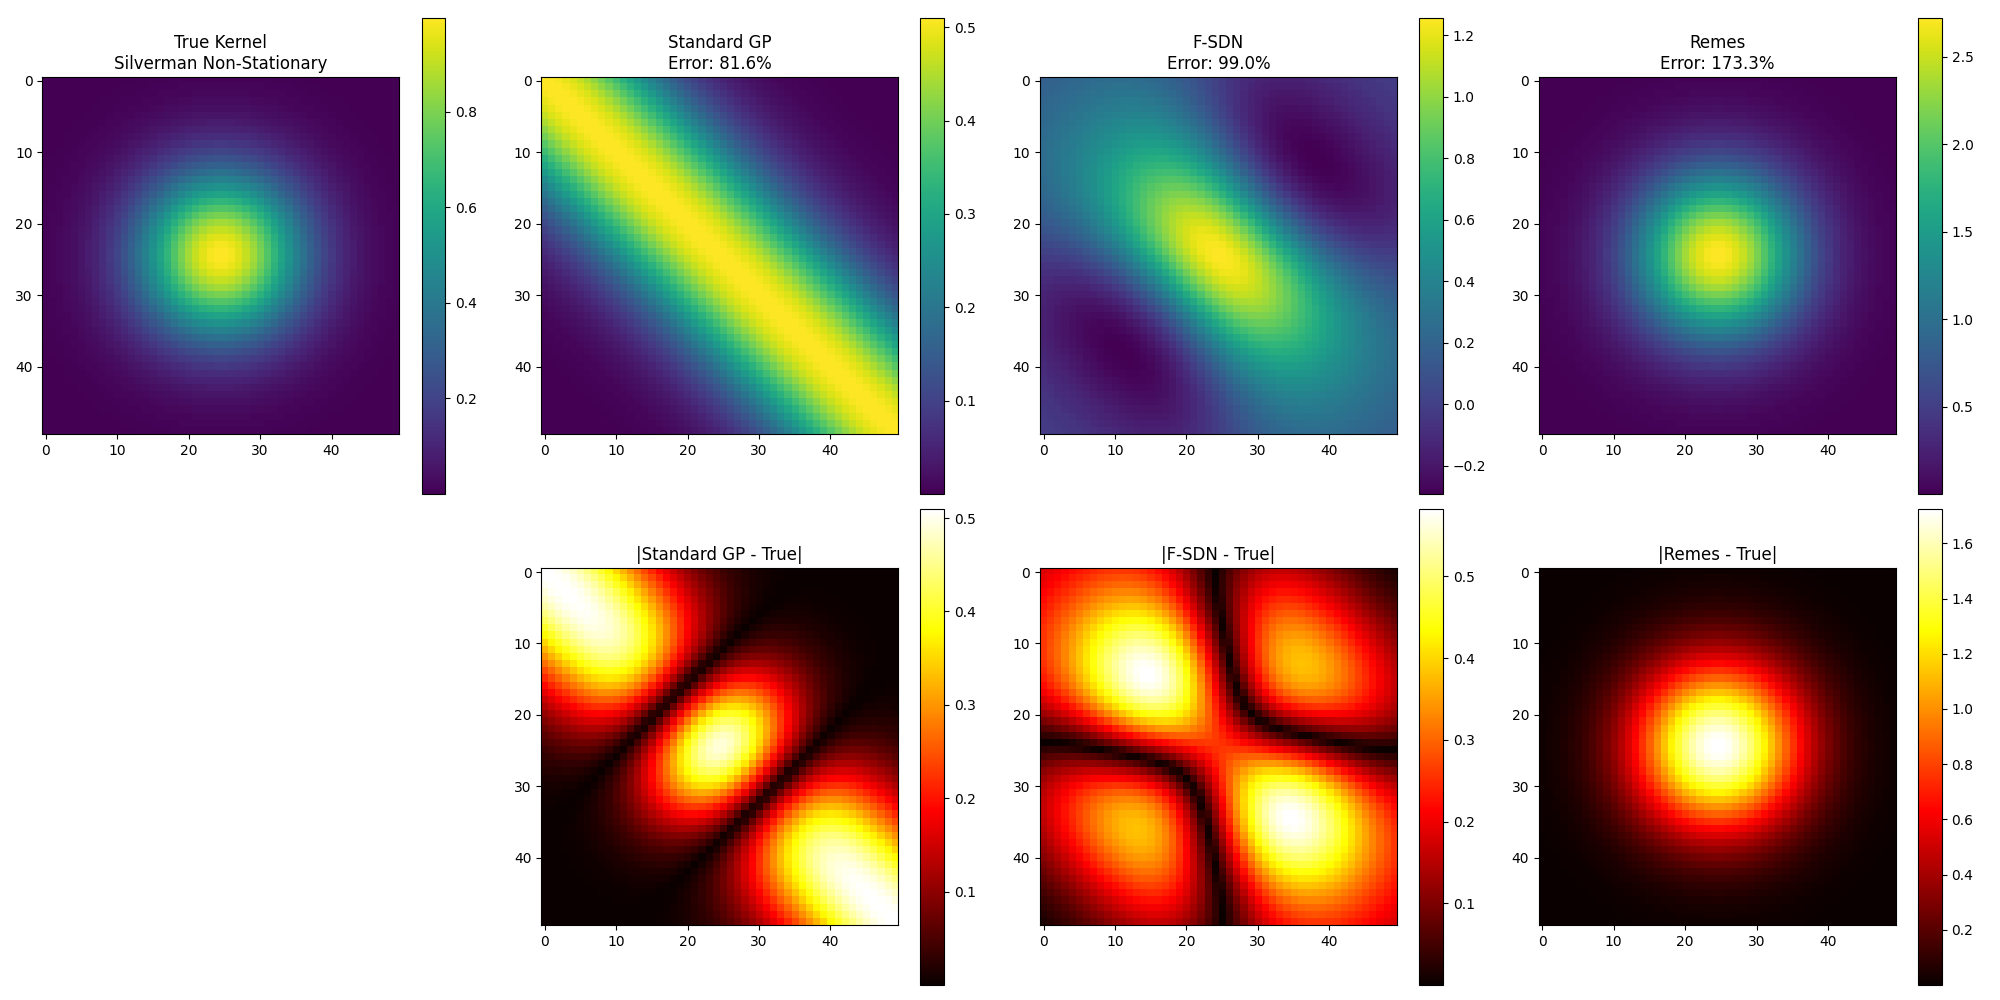
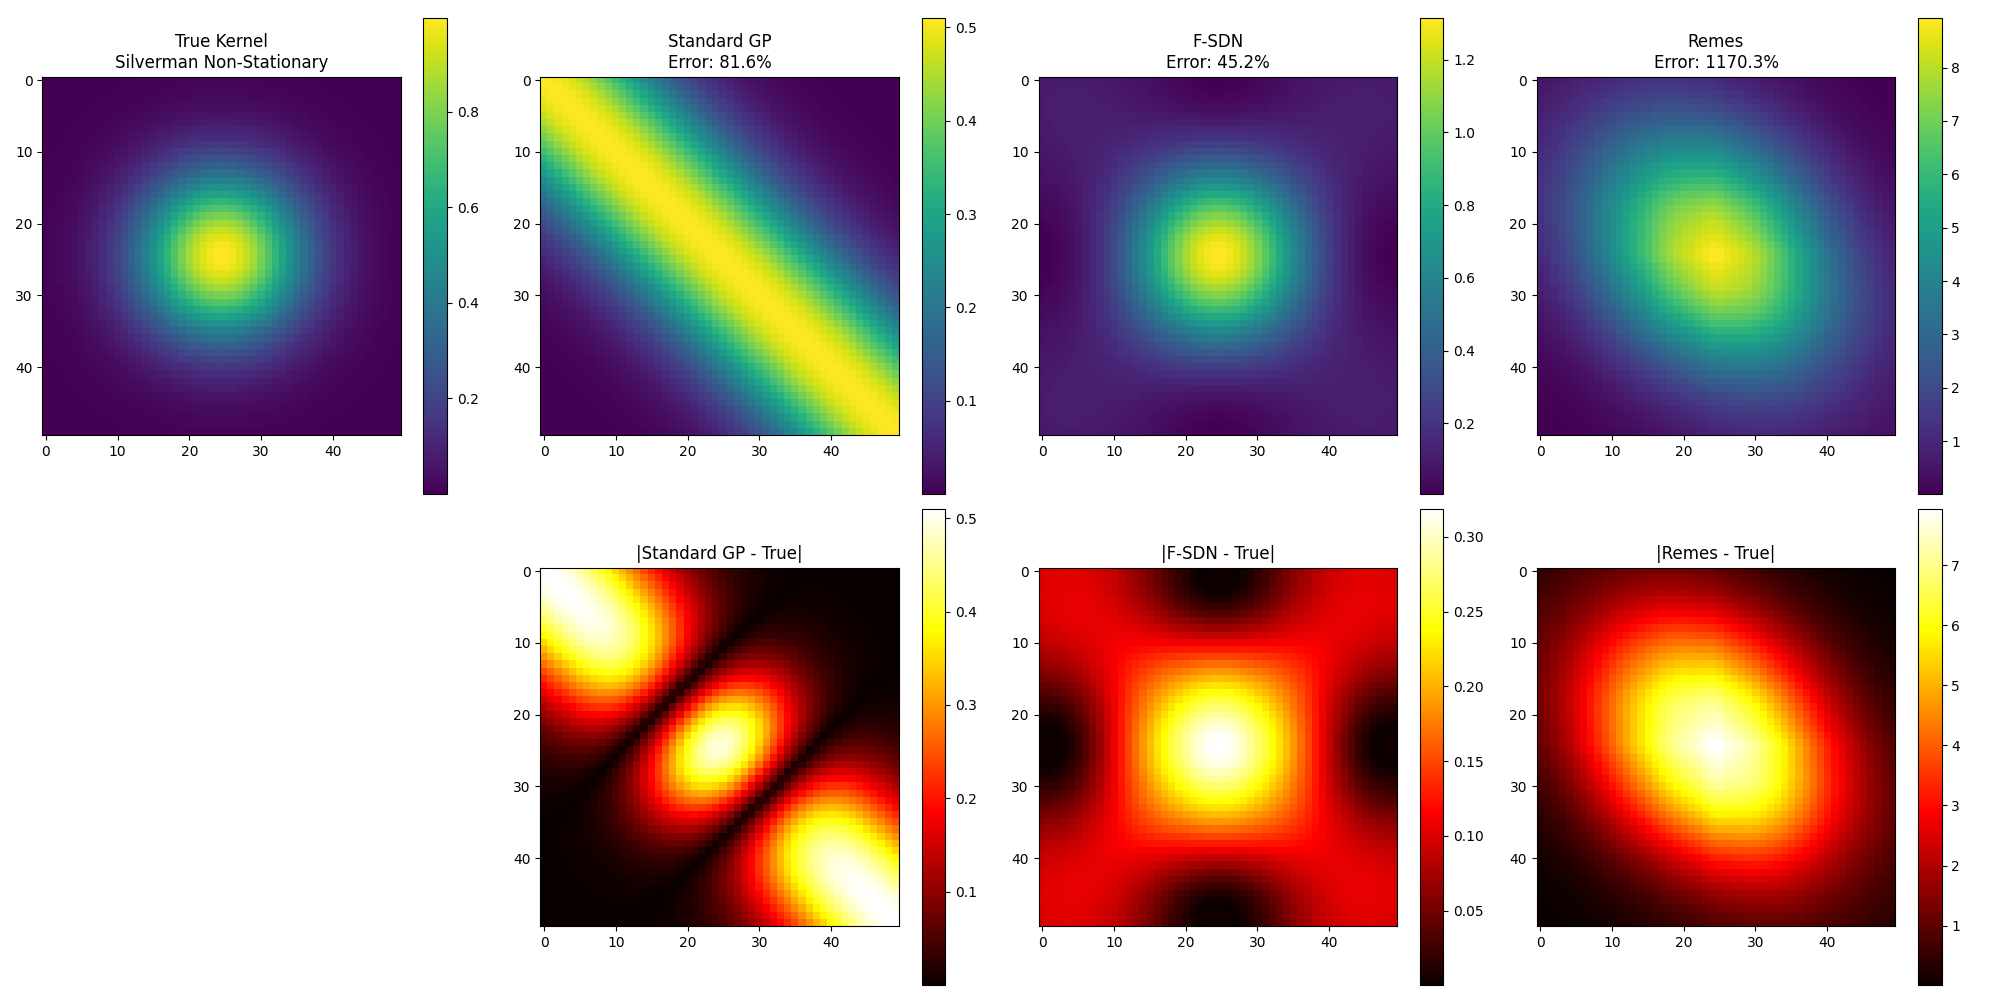
removed approximation with stationary kernel; conceptually not working

diff --git a/experiments/comparisons/compare_spatial_kernels.py b/experiments/comparisons/compare_spatial_kernels.py
@@ -93,11 +93,10 @@ def compare_kernels(
         rank=10,
         n_features=40,
         omega_max=10.0,
-        complex_measure=False,
-        use_even_odd_features=False
+        enforce_symmetry=True
     )
     sdn.fit(X_train, y_train, epochs=epochs, lr=1e-3, verbose=True,
-            use_diversity=True, lambda_diversity=0.5)  # Diversity regularization to prevent rank collapse
+            use_diversity=True, lambda_diversity=0.5)  # Smoothness + Diversity regularization
     print(f"F-SDN Final Log Scale: {sdn.log_scale.item()}")
     K_sdn = sdn.compute_covariance(X_test)
     results['F-SDN'] = K_sdn
@@ -209,16 +208,7 @@ def compare_kernels(
     return results
 
 if __name__ == "__main__":
-    # 1. Test on Stationary Kernel (RBF)
-    # Standard GP should be perfect here (0% error)
-    compare_kernels(
-        lambda x1, x2: rbf_kernel(x1, x2, lengthscale=1.0),
-        kernel_name="Stationary RBF",
-        is_stationary=True,
-        epochs=200
-    )
-    
-    # 2. Test on Non-Stationary Kernel (Silverman)
+    # Test on Non-Stationary Kernel (Silverman)
     # F-SDN should beat Standard GP
     compare_kernels(
         silverman_kernel,
